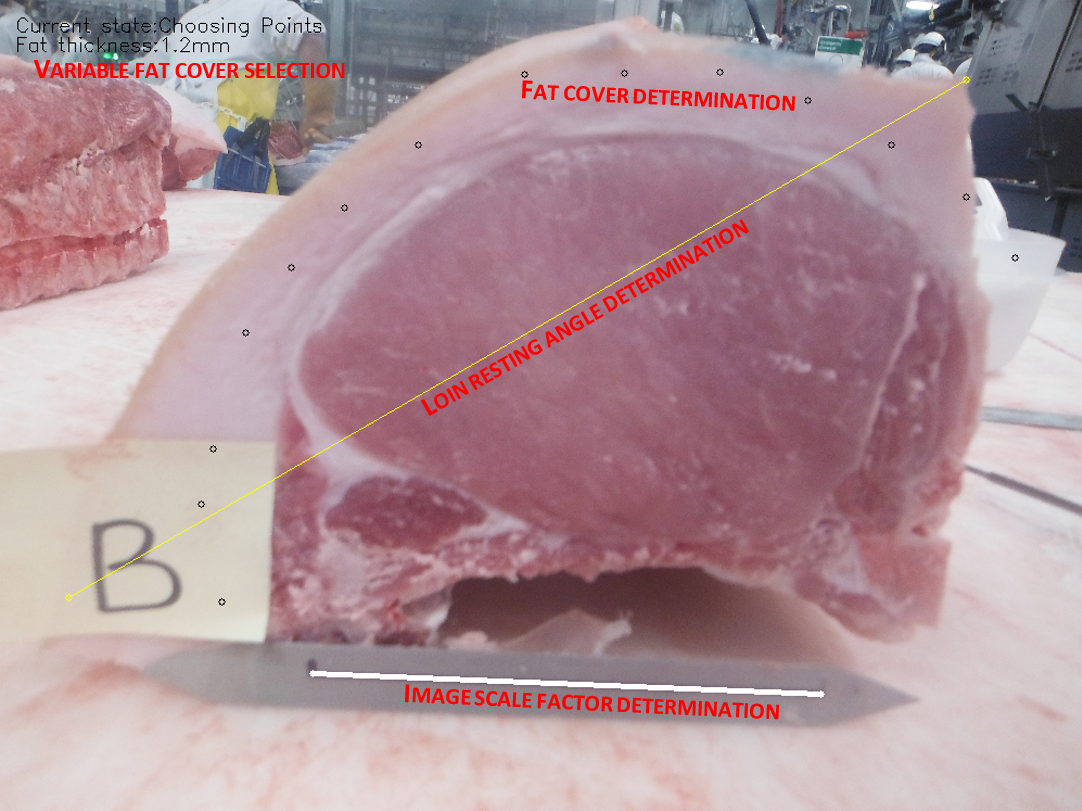
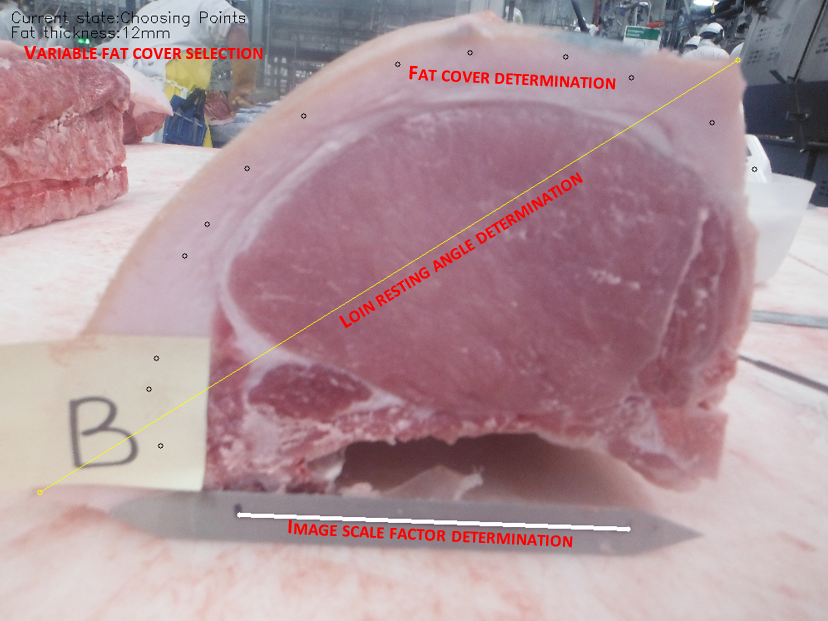
Fixed unit error in label images

diff --git a/source/label_images.py b/source/label_images.py
@@ -150,7 +150,7 @@ def display():
 def draw(canvas):
     global state, scale_points, angle_points, chosen_points, current_fat_thickness
 
-    msg = "Current state:" + state + "\nFat thickness:" + str(round(current_fat_thickness, 1)) + "mm\n"
+    msg = "Current state:" + state + "\nFat thickness:" + str(round(current_fat_thickness*10)) + "mm\n"
 
     font = cv2.FONT_HERSHEY_SIMPLEX
     y0, dy = 30, 18
